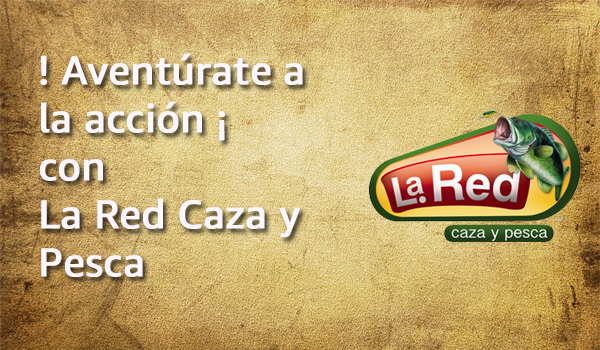
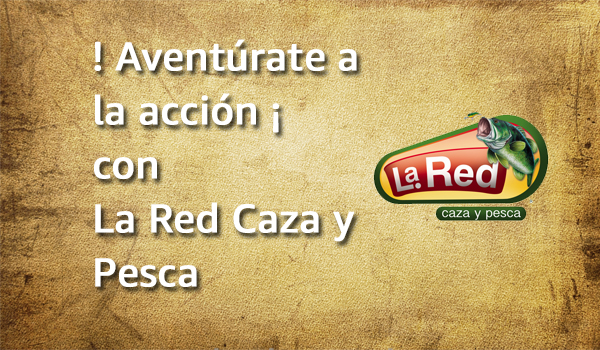
slider image 1 was added. Also we fixed the slider bug, now, it is posible to show a responsive slider as in a internet explorer browser,  as in chrome browser. We used a library called "picturefill.js".

diff --git a/LARWebSite/Assets/css/Site.css b/LARWebSite/Assets/css/Site.css
@@ -545,7 +545,10 @@ body {
 }
 
 .gallery-cell {
-    width: 100%;
-    height:auto;
+    width: 100%;height:auto;
+}
+
+.main-gallery {
+    max-height: 300px !important;
 }
 
